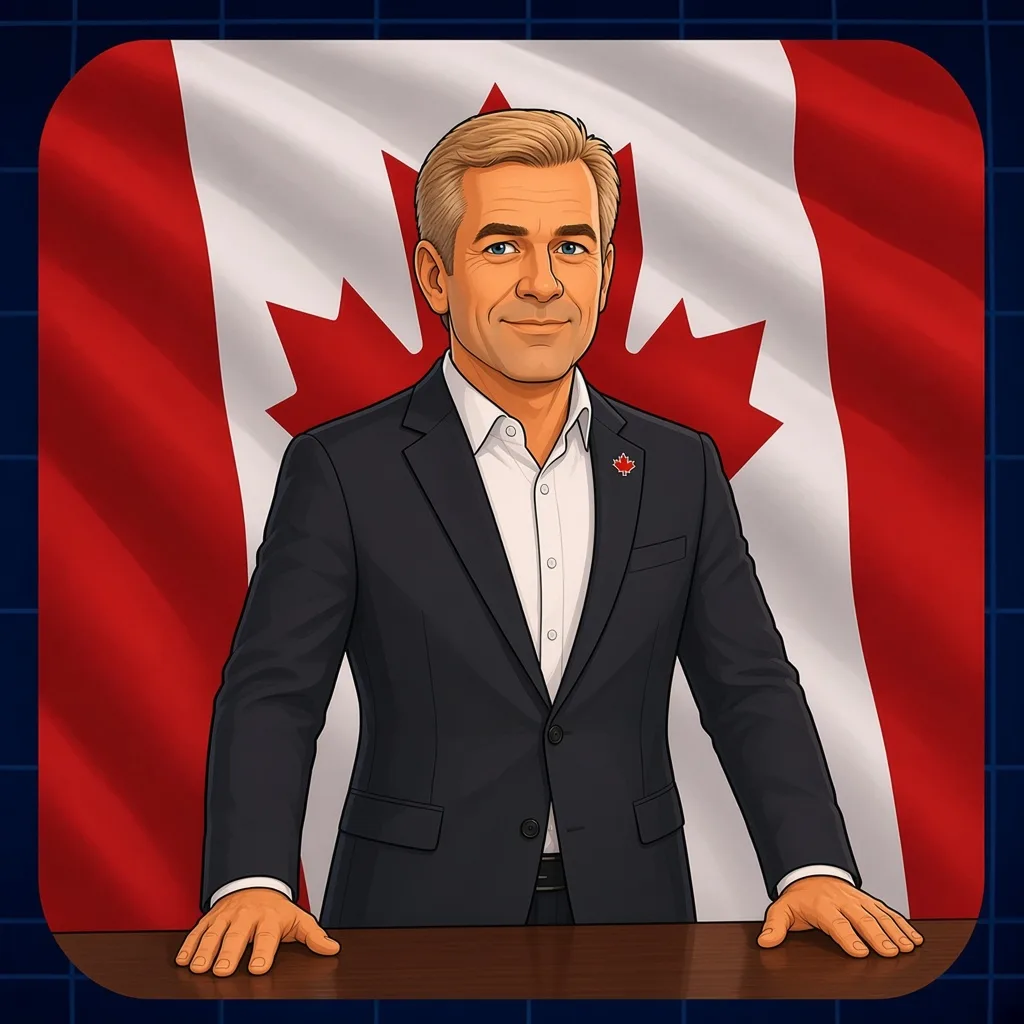
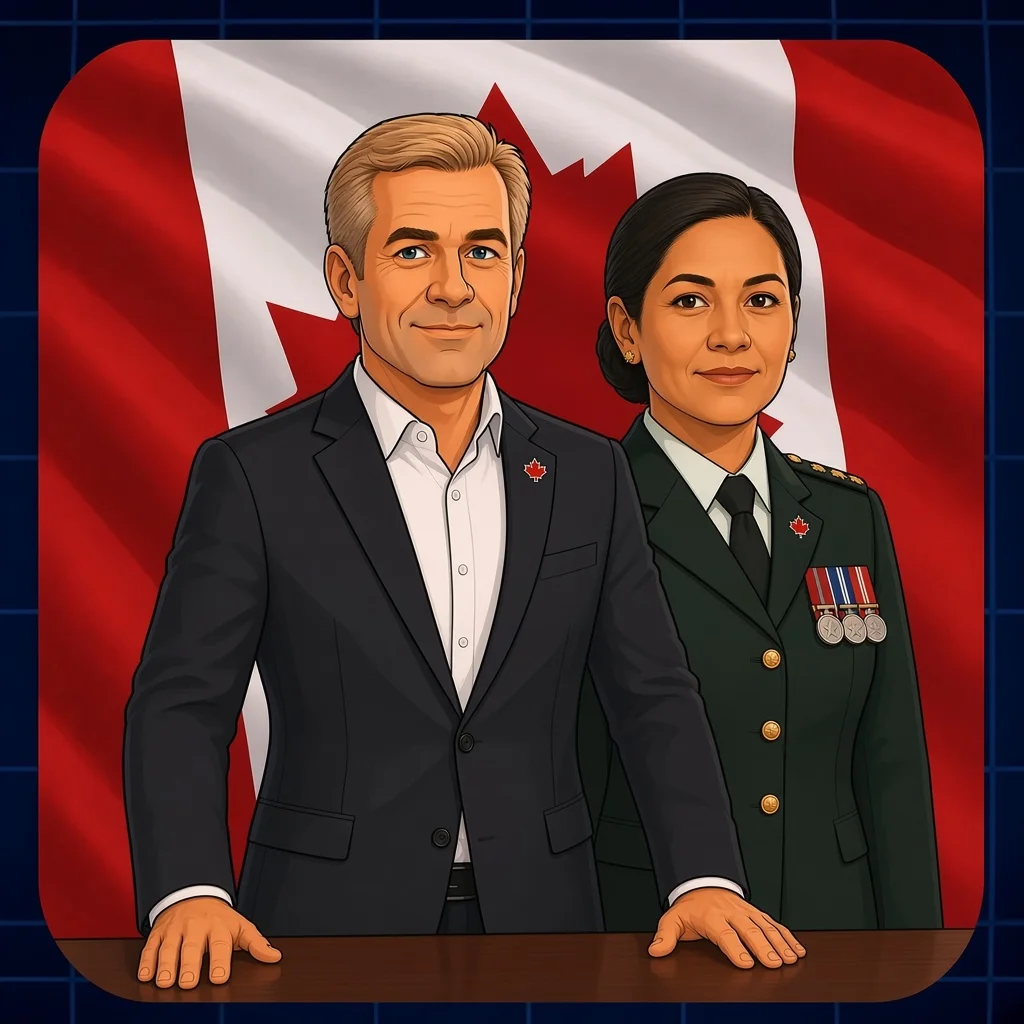
Update art assets and enhance dashboard layout
- Replaced multiple leader images with updated versions for improved visual quality.
- Introduced a new military advisor image for each nation, enhancing the strategic presentation in the dashboard.
- Updated CSS styles to improve the layout of the orders section, incorporating a grid structure for better alignment and responsiveness.

diff --git a/src/App.tsx b/src/App.tsx
@@ -1336,11 +1336,20 @@ function RoundBriefingOverlay({
                 )}
               </ul>
             )}
-            <div className="dash__orders" aria-label="Recommended orders">
-              <DashOrderCard kind="defence" order={briefing.defence} state={state} />
-              {briefing.offence && (
-                <DashOrderCard kind="offence" order={briefing.offence} state={state} />
-              )}
+            <div className="dash__orders-row">
+              <img
+                className="dash__advisor"
+                src={ART.advisors[briefing.nationId]}
+                alt=""
+                title="Military advisor"
+                draggable={false}
+              />
+              <div className="dash__orders" aria-label="Recommended orders">
+                <DashOrderCard kind="defence" order={briefing.defence} state={state} />
+                {briefing.offence && (
+                  <DashOrderCard kind="offence" order={briefing.offence} state={state} />
+                )}
+              </div>
             </div>
           </div>
         </div>

diff --git a/src/App.css b/src/App.css
@@ -2544,11 +2544,31 @@ img { max-width: 100%; display: block; }
   font-size: 0.85rem;
 }
 
+.dash__orders-row {
+  display: grid;
+  grid-template-columns: auto 1fr;
+  gap: 0.4rem;
+  align-items: stretch;
+  margin-top: auto;
+  min-width: 0;
+}
+
+.dash__advisor {
+  width: clamp(64px, 9vw, 84px);
+  height: clamp(64px, 9vw, 84px);
+  object-fit: cover;
+  object-position: top center;
+  border-radius: 14px;
+  border: 2px solid rgba(160, 200, 255, 0.45);
+  box-shadow: 0 6px 16px rgba(0, 0, 0, 0.4);
+  background: rgba(6, 12, 22, 0.85);
+}
+
 .dash__orders {
   display: grid;
   grid-template-columns: 1fr 1fr;
   gap: 0.35rem;
-  margin-top: auto;
+  min-width: 0;
 }
 
 .dash__order {
@@ -2651,6 +2671,11 @@ img { max-width: 100%; display: block; }
   .dash__lower { grid-template-columns: 1fr; }
   .dash__metrics { flex-wrap: wrap; }
   .dash__cash { flex: 1; align-items: flex-start; }
+  .dash__advisor {
+    width: 58px;
+    height: 58px;
+    border-radius: 12px;
+  }
 }
 
 .round-brief__head {

diff --git a/src/data/art.ts b/src/data/art.ts
@@ -176,6 +176,21 @@ export const ART = {
     brazil: '/art/leader-brazil-super.webp',
     australia: '/art/leader-australia-super.webp',
   } as Record<NationId, string>,
+  /** Military advisor — briefing DEF/ATK rail; also stands behind the leader on victory */
+  advisors: {
+    russia: '/art/advisor-russia.webp',
+    france: '/art/advisor-france.webp',
+    china: '/art/advisor-china.webp',
+    us: '/art/advisor-usa.webp',
+    uk: '/art/advisor-uk.webp',
+    india: '/art/advisor-india.webp',
+    pakistan: '/art/advisor-pakistan.webp',
+    iran: '/art/advisor-iran.webp',
+    northkorea: '/art/advisor-northkorea.webp',
+    canada: '/art/advisor-canada.webp',
+    brazil: '/art/advisor-brazil.webp',
+    australia: '/art/advisor-australia.webp',
+  } as Record<NationId, string>,
   /** Full-bleed national flags for the superpower end screen */
   flags: {
     russia: '/art/flag-russia.webp',
